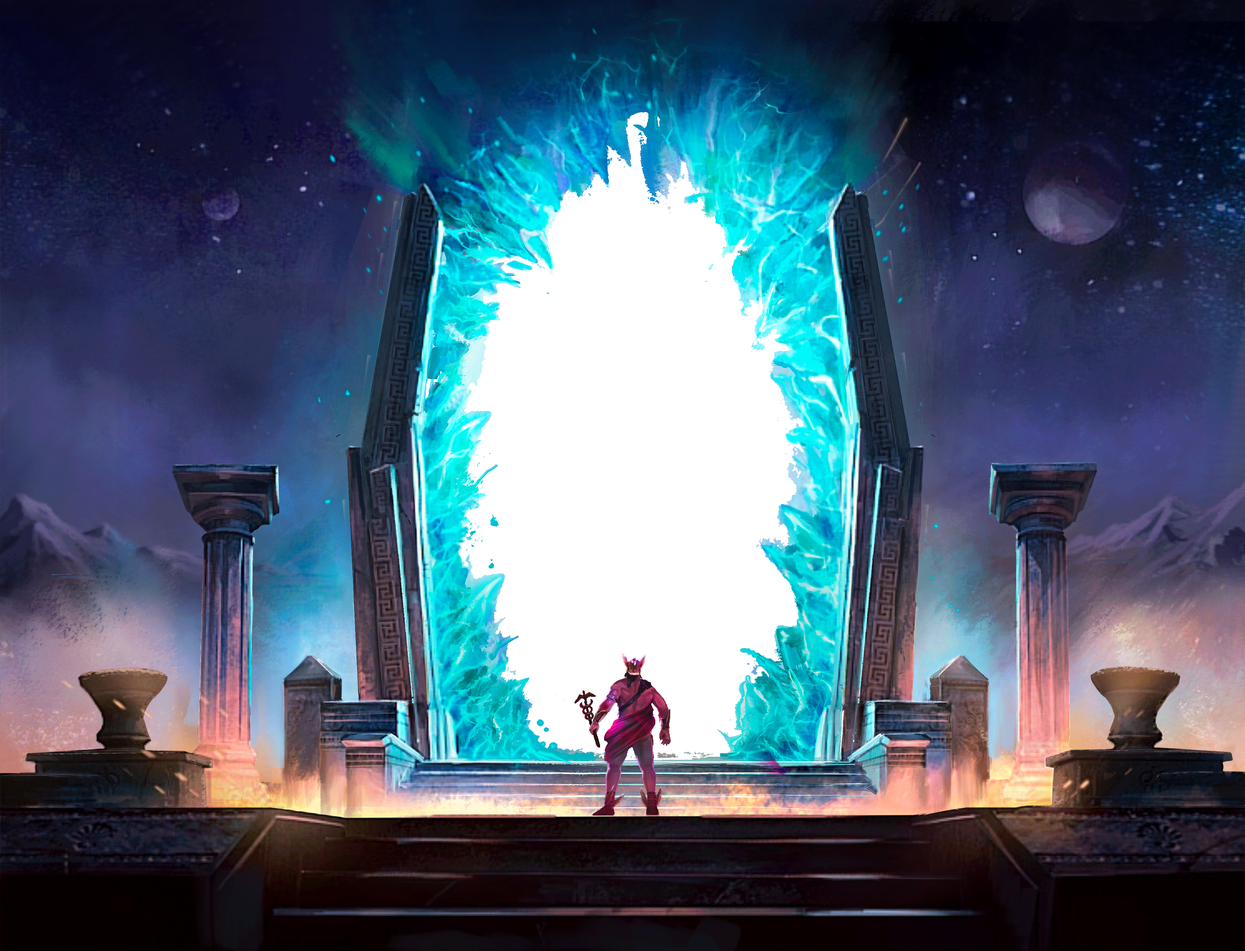
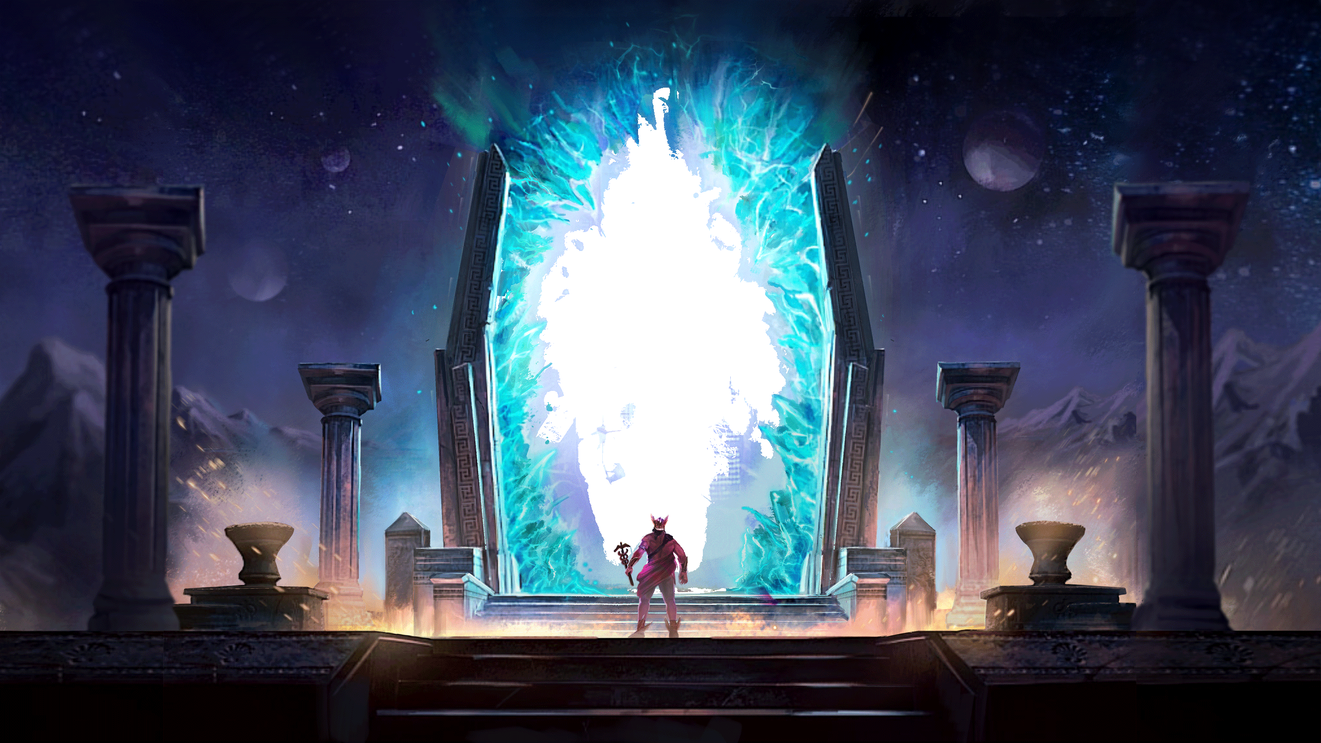
hero completed

diff --git a/src/components/howItWorksPage/hero/Hero.tsx b/src/components/howItWorksPage/hero/Hero.tsx
@@ -1,36 +1,60 @@
-import { motion } from "framer-motion";
+import { motion, useTransform, useViewportScroll } from "framer-motion";
 import Image from "next/image";
 import { useEffect, useState } from "react";
 
 const Hero: React.FC = () => {
   const [innerWidth, setInnerWidth] = useState(0);
-  const [scaleValue, setScaleValue] = useState(1);
+  // const [scaleValue, setScaleValue] = useState(1);
   useEffect(() => {
     setInnerWidth(window.innerWidth);
-    setTimeout(() => {
+    // setTimeout(() => {
     //   setScaleValue(1.3);
-    }, 3000);
+    // }, 3000);
   }, []);
+  const { scrollY } = useViewportScroll();
+  const marginLeft = useTransform(
+    scrollY,
+    (y) => (-innerWidth * (1 + y / 1000 - 1)) / 2
+  );
+  const marginTop = useTransform(
+    scrollY,
+    (y) => (-innerWidth * 0.5626 * (1 + y / 1000 - 1)) / 2
+  );
+  const width = useTransform(scrollY, (y) => innerWidth * (1 + y / 1000));
+  const height = useTransform(
+    scrollY,
+    (y) => 0.5626 * innerWidth * (1 + y / 1000)
+  );
+  const widthGif = useTransform(
+    scrollY,
+    (y) => innerWidth * 0.156 * (1 + y / 1000)
+  );
+  const bottomGif = useTransform(
+    scrollY,
+    (y) => innerWidth * 0.4 * (1 + y / 1000)
+  );
 
   return (
-    <div className="flex justify-center items-center relative w-[100vw] h-[76.4vw] mx-auto overflow-hidden hero-container">
+    <div className="flex justify-center items-center relative w-[100vw] h-[56.26vw] mx-auto overflow-hidden hero-container">
       <div className="portal-and-flame-and-hero w-full h-full relative z-10">
         <motion.span
           className="absolute duration-500 "
           style={{
-            marginLeft: (-innerWidth * (scaleValue - 1)) / 2,
-            marginTop: (-innerWidth * 0.7636 * (scaleValue - 1)) / 2,
-            width: innerWidth * scaleValue,
-            height: 0.7636 * innerWidth * scaleValue,
+            marginLeft,
+            marginTop,
+            width,
+            height,
           }}
         >
-          <Image src={"/img/art/portal.png"} layout="fill" />
-        </motion.span>
-        <motion.span
-          className="absolute duration-500 z-20 bottom-[13.7%] left-[47.5%]"
-          style={{}}
-        >
-          <img className="w-60" src={"/img/art/cape.gif"}  />
+          <div className="w-full h-full relative">
+            <Image src={"/img/art/portal.png"} layout="fill" />
+
+            <motion.img
+              style={{ width: widthGif, top: bottomGif }}
+              className=" absolute duration-500 z-20 left-[47%]"
+              src={"/img/art/cape.gif"}
+            />
+          </div>
         </motion.span>
       </div>
       <span
@@ -41,7 +65,7 @@ const Hero: React.FC = () => {
           src={"/img/art/city.png"}
           layout="fixed"
           width={innerWidth}
-          height={0.7636 * innerWidth * 1.3}
+          height={0.5626 * innerWidth * 1.3}
         />
       </span>
     </div>
